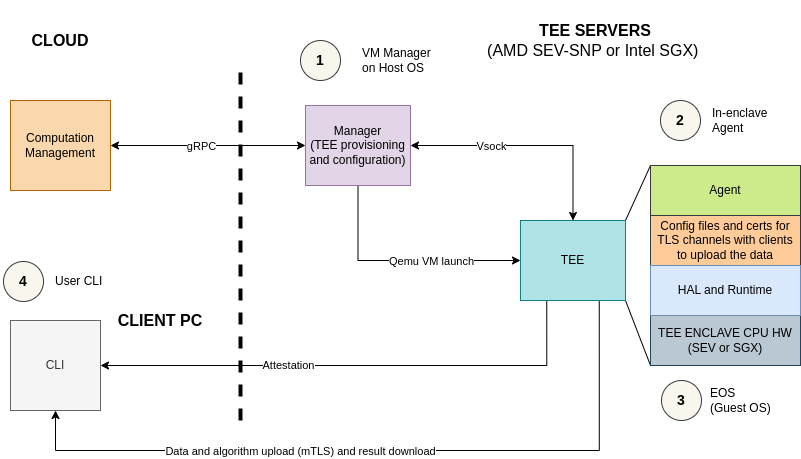
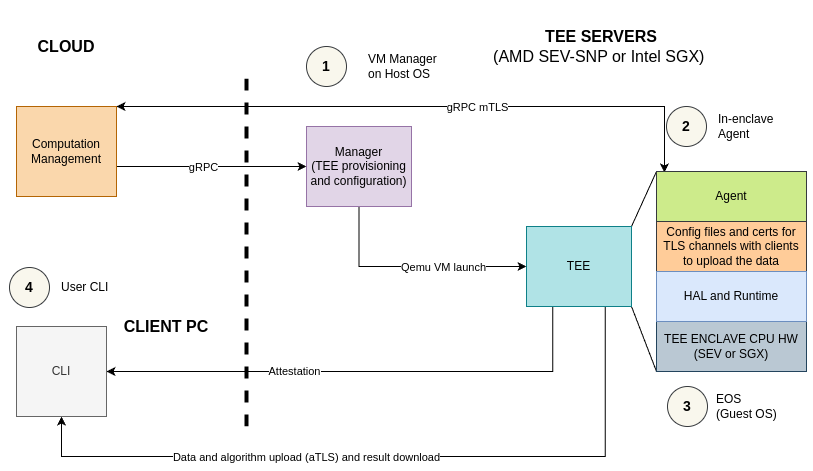
CD-49 - Update documentation for Computation Manifest and Agent communication (#52)
* Update documentation for Computation Manifest and Agent communication; remove outdated vsock references

* Update docs/getting-started.md

* Improve documentation by adding spacing for better readability in getting-started and manager guides

* Add spacing for clarity in CLI documentation on CVM creation and removal

---------

diff --git a/docs/getting-started.md b/docs/getting-started.md
@@ -64,12 +64,34 @@ The output will be similar to this:
 
 The keys will be saved as `public.pem` and `private.pem` in the current directory.
 
-### Starting Computations Server
+### Starting Cvms Server
 
-The manager is a gRPC client and needs a gRPC server to connect to. We have an example server for testing purposes in `test/computations`. Run the server as follows:
+The agent has a cvms gRPC client and needs a gRPC server to connect to. We have an example server for testing purposes in `test/cvms`. Run the server as follows:
+
+#### Finding Your IP Address
+
+When running the CVMS server, you'll need to use an IP address that is accessible from the VM rather than using localhost. To find your machine's IP address:
 
 ```bash
-go run ./test/computations/main.go <algo-path> <public-key-path> <attested-tls-bool> <data-paths>
+ip -a
+```
+
+Look for your network interface (such as wlan0 for WiFi or eth0 for Ethernet) and note the IP address. For example:
+
+```bash
+2: wlan0: <BROADCAST,MULTICAST,UP,LOWER_UP> mtu 1500 qdisc noqueue state UP group default qlen 1000
+    link/ether 12:34:56:78:9a:bc brd ff:ff:ff:ff:ff:ff
+    inet 192.168.1.100/24 brd 192.168.1.255 scope global dynamic noprefixroute wlan0
+```
+
+In this example, the IP address is 192.168.1.100. You'll use this IP address when running the CVMS server and configuring the cvm using manager.
+
+#### Run the Server
+
+Run the server as follows:
+
+```bash
+HOST=<externally_accessible_ip> go run ./test/cvms/main.go <algo-path> <public-key-path> <attested-tls-bool> <data-paths>
 ```
 
 `data-paths` can be empty, a single file or multiple files depending on the nature of the algorithm and type of data.
@@ -77,7 +99,7 @@ go run ./test/computations/main.go <algo-path> <public-key-path> <attested-tls-b
 For example
 
 ```bash
-go run ./test/computations/main.go ./test/manual/algo/addition.py ./public.pem false
+HOST="192.168.1.100" go run ./test/cvms/main.go ./test/manual/algo/addition.py ./public.pem false
 ```
 
 Since this is an addition example, the data paths are empty.
@@ -85,7 +107,7 @@ Since this is an addition example, the data paths are empty.
 The output will be similar to this:
 
 ```bash
-{"time":"2024-08-12T00:05:13.321374245+03:00","level":"INFO","msg":"manager_test_server service gRPC server listening at :7001 without TLS"}
+{"time":"2024-08-12T00:05:13.321374245+03:00","level":"INFO","msg":"manager_test_server service gRPC server listening at 192.168.1.100:7001 without TLS"}
 ```
 
 The test server uses the paths to the algorithm and datasets to obtain the file and include the file hashes in the computation manifest. The files are uploaded to the agent via cli. The public key provided can be generated using OpenSSL or cocos-cli.
@@ -93,38 +115,6 @@ The test server uses the paths to the algorithm and datasets to obtain the file 
 ### Running Manager
 
 Next, we need to start manager. But first, we'll need to install some prerequisites.
-
-#### Vsock
-
-[Virtio-vsock](https://wiki.qemu.org/Features/VirtioVsock) is a host/guest communications device. It allows applications in the guest and host to communicate. In this case, it is used to communicate between the manager and the agent. To enable it run the following on the host:
-
-```bash
-sudo modprobe vhost_vsock
-```
-
-to confirm that it is enabled run:
-
-```bash
-ls -l /dev/vsock
-```
-
-The output will be similar to this:
-
-```bash
-crw-rw-rw- 1 root root 10, 122 Aug 11 23:47 /dev/vsock
-```
-
-and
-
-```bash
-ls -l /dev/vhost-vsock
-```
-
-The output will be similar to this:
-
-```bash
-crw-rw-rw- 1 root kvm 10, 241 Aug 11 23:47 /dev/vhost-vsock
-```
 
 #### OVMF
 
@@ -156,9 +146,9 @@ the output will be similar to this
 /usr/share/OVMF/OVMF_VARS.fd
 ```
 
-#### Run
+#### Start Manager
 
-When the manager connects to the computations server, the server then sends a computation manifest. In response, the manager will send logs and events from the computation both from the manager and the agent. To start run:
+To start run:
 
 ```bash
 cd cmd/manager
@@ -167,7 +157,8 @@ cd cmd/manager
 ```bash
 sudo \
 MANAGER_QEMU_SMP_MAXCPUS=4 \
-MANAGER_GRPC_URL=localhost:7001 \
+MANAGER_GRPC_HOST=localhost \
+MANAGER_GRPC_PORT=7002
 MANAGER_LOG_LEVEL=debug \
 MANAGER_QEMU_ENABLE_SEV_SNP=false \
 MANAGER_QEMU_OVMF_CODE_FILE=/usr/share/edk2/x64/OVMF_CODE.fd \
@@ -178,7 +169,7 @@ go run main.go
 The output of the manager will be similar to this:
 
 ```bash
-{"time":"2024-08-12T00:05:21.119156392+03:00","level":"INFO","msg":"-enable-kvm -machine q35 -cpu EPYC -smp 4,maxcpus=4 -m 2048M,slots=5,maxmem=30G -drive if=pflash,format=raw,unit=0,file=/usr/share/edk2/x64/OVMF_CODE.fd,readonly=on -drive if=pflash,format=raw,unit=1,file=/usr/share/edk2/x64/OVMF_VARS.fd -netdev user,id=vmnic,hostfwd=tcp::7020-:7002 -device virtio-net-pci,disable-legacy=on,iommu_platform=true,netdev=vmnic,addr=0x2,romfile= -device vhost-vsock-pci,id=vhost-vsock-pci0,guest-cid=3 -vnc :0 -kernel img/bzImage -append \"earlyprintk=serial console=ttyS0\" -initrd img/rootfs.cpio.gz -nographic -monitor pty"}
+{"time":"2024-08-12T00:05:21.119156392+03:00","level":"INFO","msg":"-enable-kvm -machine q35 -cpu EPYC -smp 4,maxcpus=4 -m 2048M,slots=5,maxmem=30G -drive if=pflash,format=raw,unit=0,file=/usr/share/edk2/x64/OVMF_CODE.fd,readonly=on -drive if=pflash,format=raw,unit=1,file=/usr/share/edk2/x64/OVMF_VARS.fd -netdev user,id=vmnic,hostfwd=tcp::7020-:7002 -device virtio-net-pci,disable-legacy=on,iommu_platform=true,netdev=vmnic,addr=0x2,romfile=  -kernel img/bzImage -append \"earlyprintk=serial console=ttyS0\" -initrd img/rootfs.cpio.gz -nographic -monitor pty"}
 {"time":"2024-08-12T00:05:38.725566058+03:00","level":"INFO","msg":"Method Run for computation took 17.591835113s to complete"}
 {"time":"2024-08-12T00:05:38.727745349+03:00","level":"INFO","msg":"Agent Log/Event, Computation ID: 1, Message: agent_event:{event_type:\"receivingAlgorithm\" timestamp:{seconds:1723410338 nanos:718187674} computation_id:\"1\" originator:\"agent\" status:\"in-progress\"}"}
 {"time":"2024-08-12T00:05:38.727737113+03:00","level":"INFO","msg":"Agent Log/Event, Computation ID: 1, Message: agent_log:{message:\"Transition: receivingManifest -> receivingManifest\\n\" computation_id:\"1\" level:\"DEBUG\" timestamp:{seconds:1723410338 nanos:717822747}}"}
@@ -186,7 +177,18 @@ The output of the manager will be similar to this:
 2024/08/12 00:05:41 traces export: Post "http://localhost:4318/v1/traces": dial tcp [::1]:4318: connect: connection refused
 ```
 
-The output on the manager test server will be similar to this:
+##### Create a cvm
+
+To create a cvm we'll need the host address used to start the cvms server. An example is shown below:
+
+```bash
+export MANAGER_GRPC_URL=localhost:7002
+./build/cocos-cli create-vm --log-level debug --server-url "192.168.1.100:7001"
+```
+
+When the cvm boots, it will connect to the cvms server and receive a computation manifest. Once started agent will send back events and logs.
+
+The output on the cvms test server will be similar to this:
 
 ```bash
 {"time":"2024-08-12T00:05:13.321374245+03:00","level":"INFO","msg":"manager_test_server service gRPC server listening at :7001 without TLS"}
@@ -273,7 +275,7 @@ Both should return the same result.
 The output from the manager will be similar to this:
 
 ```bash
-{"time":"2024-08-12T00:05:21.119156392+03:00","level":"INFO","msg":"-enable-kvm -machine q35 -cpu EPYC -smp 4,maxcpus=4 -m 2048M,slots=5,maxmem=30G -drive if=pflash,format=raw,unit=0,file=/usr/share/edk2/x64/OVMF_CODE.fd,readonly=on -drive if=pflash,format=raw,unit=1,file=/usr/share/edk2/x64/OVMF_VARS.fd -netdev user,id=vmnic,hostfwd=tcp::7020-:7002 -device virtio-net-pci,disable-legacy=on,iommu_platform=true,netdev=vmnic,addr=0x2,romfile= -device vhost-vsock-pci,id=vhost-vsock-pci0,guest-cid=3 -vnc :0 -kernel img/bzImage -append \"earlyprintk=serial console=ttyS0\" -initrd img/rootfs.cpio.gz -nographic -monitor pty"}
+{"time":"2024-08-12T00:05:21.119156392+03:00","level":"INFO","msg":"-enable-kvm -machine q35 -cpu EPYC -smp 4,maxcpus=4 -m 2048M,slots=5,maxmem=30G -drive if=pflash,format=raw,unit=0,file=/usr/share/edk2/x64/OVMF_CODE.fd,readonly=on -drive if=pflash,format=raw,unit=1,file=/usr/share/edk2/x64/OVMF_VARS.fd -netdev user,id=vmnic,hostfwd=tcp::7020-:7002 -device virtio-net-pci,disable-legacy=on,iommu_platform=true,netdev=vmnic,addr=0x2,romfile=  -kernel img/bzImage -append \"earlyprintk=serial console=ttyS0\" -initrd img/rootfs.cpio.gz -nographic -monitor pty"}
 {"time":"2024-08-12T00:05:38.725566058+03:00","level":"INFO","msg":"Method Run for computation took 17.591835113s to complete"}
 {"time":"2024-08-12T00:05:38.727745349+03:00","level":"INFO","msg":"Agent Log/Event, Computation ID: 1, Message: agent_event:{event_type:\"receivingAlgorithm\" timestamp:{seconds:1723410338 nanos:718187674} computation_id:\"1\" originator:\"agent\" status:\"in-progress\"}"}
 {"time":"2024-08-12T00:05:38.727737113+03:00","level":"INFO","msg":"Agent Log/Event, Computation ID: 1, Message: agent_log:{message:\"Transition: receivingManifest -> receivingManifest\\n\" computation_id:\"1\" level:\"DEBUG\" timestamp:{seconds:1723410338 nanos:717822747}}"}
@@ -330,3 +332,11 @@ received agent log
 These logs provide detailed information about the operations of the manager and agent and can be useful for troubleshooting any issues that may arise.
 
 For more information on running different algorithms and datasets see the [algorithms](./algorithms.md) documentation.
+
+### Deleting the cvm
+
+Once done the cvm can be destroyed by running:
+
+```bash
+./build/cocos-cli remove-vm <cvm_id>
+```

diff --git a/docs/manager.md b/docs/manager.md
@@ -9,8 +9,6 @@ Manager exposes an API for control, based on gRPC, and is controlled by Computat
 
 Computation Management service is used to to configure computation metadata. Once a computation is created by a user and the invited users have uploaded their public certificates (used later for identification and data exchange in the enclave), a run request is sent. The Manager is responsible for creating the TEE in which computation will be ran and managing the computation lifecycle.
 
-Communication between Computation Management cloud and the Manager is done via gRPC, while communication between Manager and Agent is done via [Virtio Vsock](https://wiki.qemu.org/Features/VirtioVsock). Vsock is used to send Agent events from the computation in the Agent to the Manager. The Manager then sends the events back to Computation Mangement cloud via gRPC, and these are visible to the end user.
-
 The picture below shows where the Manager runs in the Cocos system, helping us better understand its role.
 
 ![Manager](/img/manager.png)
@@ -19,7 +17,7 @@ The picture below shows where the Manager runs in the Cocos system, helping us b
 
 When TEE is booted, an Agent is automatically deployed and is used for outside communication with the enclave (via the API) and for computation orchestration (data and algorithm upload, start of the computation and retrieval of the result).
 
-Agent is a gRPC server, and CLI is a gRPC client of the Agent. The Manager sends the Computation Manifest to the Agent via vsock and the Agent runs the computation, according to the Computation Manifest, while sending events back to manager on the status. The Manager then sends the events it receives from agent via vsock to Computation Mangement cloud through gRPC.
+Agent is a gRPC server, and CLI is a gRPC client of the Agent. The Manager configures the Agent's CVMS gRPC client with URL, certificates, and other configuration settings to connect to the cloud CVMS server. The cloud CVMS server sends the Computation Manifest to the Agent, which runs the computation according to the Manifest, while sending events back to CVMS server on the status via gRPC.
 
 ## vTPM-Based Attestation & IGVM Validation
 
@@ -52,18 +50,6 @@ sudo apt install qemu-kvm
 ```
 
 Create `img` directory in `cmd/manager`. Create `tmp` directory in `cmd/manager`.
-
-#### Add V-sock
-
-The necessary kernel modules must be loaded on the hypervisor.
-
-```shell
-sudo modprobe vhost_vsock
-ls -l /dev/vhost-vsock
-# crw-rw-rw- 1 root kvm 10, 241 Jan 16 12:05 /dev/vhost-vsock
-ls -l /dev/vsock
-# crw-rw-rw- 1 root root 10, 121 Jan 16 12:05 /dev/vsock
-```
 
 ### Prepare Cocos HAL
 

diff --git a/docs/developer-guide.md b/docs/developer-guide.md
@@ -35,18 +35,6 @@ make
 
 #### Testing HAL image
 
-##### Enable V-Sock
-
-The necessary kernel modules must be loaded on the hypervisor.
-
-```shell
-sudo modprobe vhost_vsock
-ls -l /dev/vhost-vsock
-# crw-rw-rw- 1 root kvm 10, 241 Jan 16 12:05 /dev/vhost-vsock
-ls -l /dev/vsock
-# crw-rw-rw- 1 root root 10, 121 Jan 16 12:05 /dev/vsock
-```
-
 ##### Launch the VM
 
 To launch the virtual machine containing agent for testing purposes, run:
@@ -63,23 +51,26 @@ OVMF_VARS=/usr/share/OVMF/OVMF_VARS.fd
 KERNEL="buildroot/output/images/bzImage"
 INITRD="buildroot/output/images/rootfs.cpio.gz"
 
-qemu-system-x86_64 \
--enable-kvm \
--cpu EPYC-v4 \
--machine q35 \
--smp 4 \
--m 2048M,slots=5,maxmem=10240M \
--no-reboot \
--drive if=pflash,format=raw,unit=0,file=$OVMF_CODE,readonly=on \
--netdev user,id=vmnic,hostfwd=tcp::7020-:7002 \
--device virtio-net-pci,disable-legacy=on,iommu_platform=true,netdev=vmnic,romfile= \
--device vhost-vsock-pci,id=vhost-vsock-pci0,guest-cid=3 \
--kernel $KERNEL \
--append "earlyprintk=serial console=ttyS0" \
--initrd $INITRD \
--nographic \
--monitor pty \
--monitor unix:monitor,server,nowait
+qemu-system-x86_64 \ 
+    -enable-kvm \
+    -cpu EPYC-v4 \
+    -machine q35 \
+    -smp 4 \
+    -m 25G,slots=5,maxmem=30G \
+    -no-reboot \
+    -drive if=pflash,format=raw,unit=0,file=$OVMF_CODE,readonly=on \
+    -netdev user,id=vmnic,hostfwd=tcp::7020-:7002 \
+    -device virtio-net-pci,disable-legacy=on,iommu_platform=true,netdev=vmnic,romfile= \
+    -kernel $KERNEL \
+    -append "earlyprintk=serial console=ttyS0" \
+    -initrd $INITRD \
+    -nographic \
+    -monitor pty \
+    -monitor unix:monitor,server,nowait \
+    -fsdev local,id=cert_fs,path=/home/sammyk/Documents/certs,security_model=mapped \
+    -device virtio-9p-pci,fsdev=cert_fs,mount_tag=certs_share \
+    -fsdev local,id=env_fs,path=/home/sammyk/Documents/env,security_model=mapped \
+    -device virtio-9p-pci,fsdev=env_fs,mount_tag=env_share
 ```
 
 The default password is `root`.

diff --git a/docs/cli.md b/docs/cli.md
@@ -179,13 +179,13 @@ To fetch the CA bundle for SEV-SNP, use the following commands:
 ./build/cocos-cli ca-bundle <path_to_platform_info.json>
 ```
 
-#### Measure IGVM file
+### Measure IGVM file
 
 We assume that our current working directory is the root of the cocos repository, both on the host machine and in the VM.
 
 `igvmmeasure` calculates the launch measurement for an IGVM file and can generate a signed version. It ensures integrity by precomputing the expected launch digest, which can be verified against the attestation report. The tool parses IGVM directives, outputs the measurement as a hex string, or creates a signed file for verification at guest launch.
 
-##### Example
+#### Example
 
 We measure an IGVM file using our measure command, run:
 
@@ -199,6 +199,15 @@ Here is a sample output
 
 ```bash
[1 lines of base64/hex data omitted]
+```
+
+### Create and Remove CVM
+
+CLI can be used to create and remove cvms from manager:
+
+```bash
+./build/cocos-cli create-vm --log-level debug --server-url <server_host:server_port>
+./build/cocos-cli remove-vm <cvm_id>
 ```
 
 ## Installation

diff --git a/docs/agent.md b/docs/agent.md
@@ -35,10 +35,6 @@ The picture below shows where the agent runs in the Cocos system, helping us bet
 
 As the computation in the agent undergoes different operations, it sends events to the manager so that the user can monitor the computation from either the UI or other client. Events sent to the manager are based on the agent state as defined by the statemachine.
 
-## Vsock Connection Between Agent & Manager
-
-Agent sends agent events and logs to the manager via vsock. The manager listens to the vsock and forwards the events via gRPC. The agent events and logs are used to show the status of the computation inside the TEE so that a user can be aware of what is happening inside the TEE.
-
 ## Attestation
 
 The agent can fetch the [SNP attestation](./attestation.md) report from the SNP firmware that is running on the AMD Secure Processor (ASP or PSP) and the vTPM attestation report. It interacts with the vTPM to retrieve cryptographic measurements of the CVM’s boot and runtime state. These reports ensure that the CVM is running the expected code on trusted hardware and is configured correctly.

diff --git a/docs/computation.md b/docs/computation.md
@@ -19,8 +19,6 @@ One user can have several roles - for example, an Algorithm Provider can also be
 
 ## Computation Manifest
 
-Computation Manifest represents the Computation description and is sent upon `run` command to the Manager.
-
-Manager fetches the Computation Manifest and sends it into the TEE to Agent, via vsock.
+Computation Manifest represents the Computation description and is sent upon `run` request to the cvms gRPC client on agent.
 
 The first thing that Agent does upon boot, is that it fetches the Computation Manifest and reads it. For this Manifest, Agent understands who are the participants in the computation adn with wich role, i.e. from whom it can accept the connections and what data they will send. Agent also learns from the Manifest what algorithm is used and how many datasets will be provided. This way it knows when it received all necessary files to start the execution. Finally, Agent learns from the Manifest to whom it needs to send the Result of the computation.
